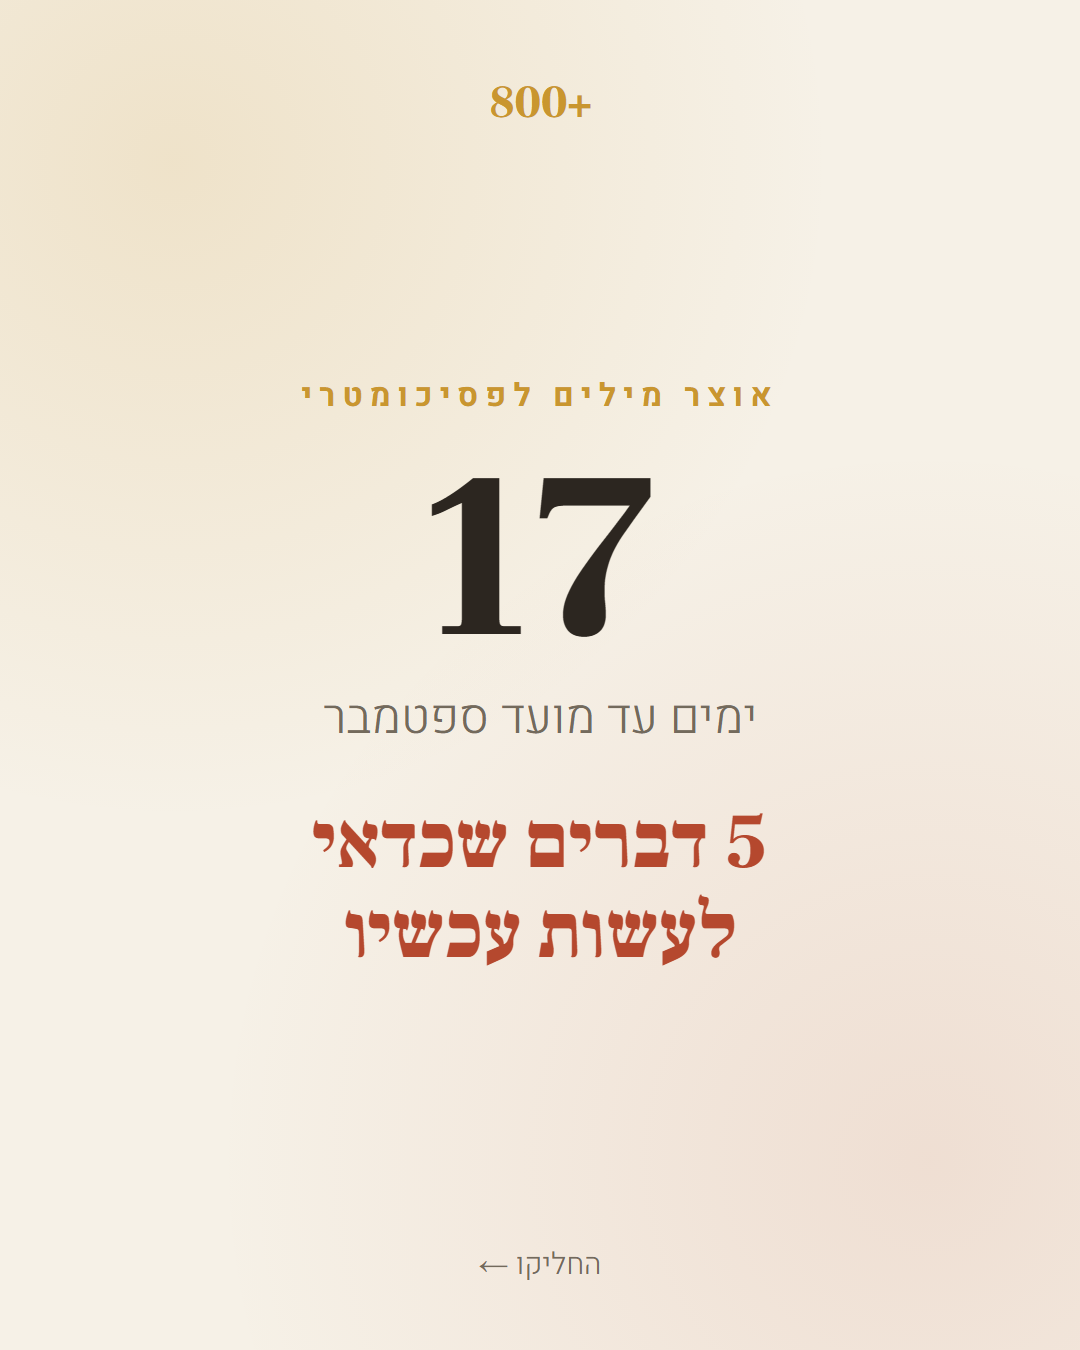
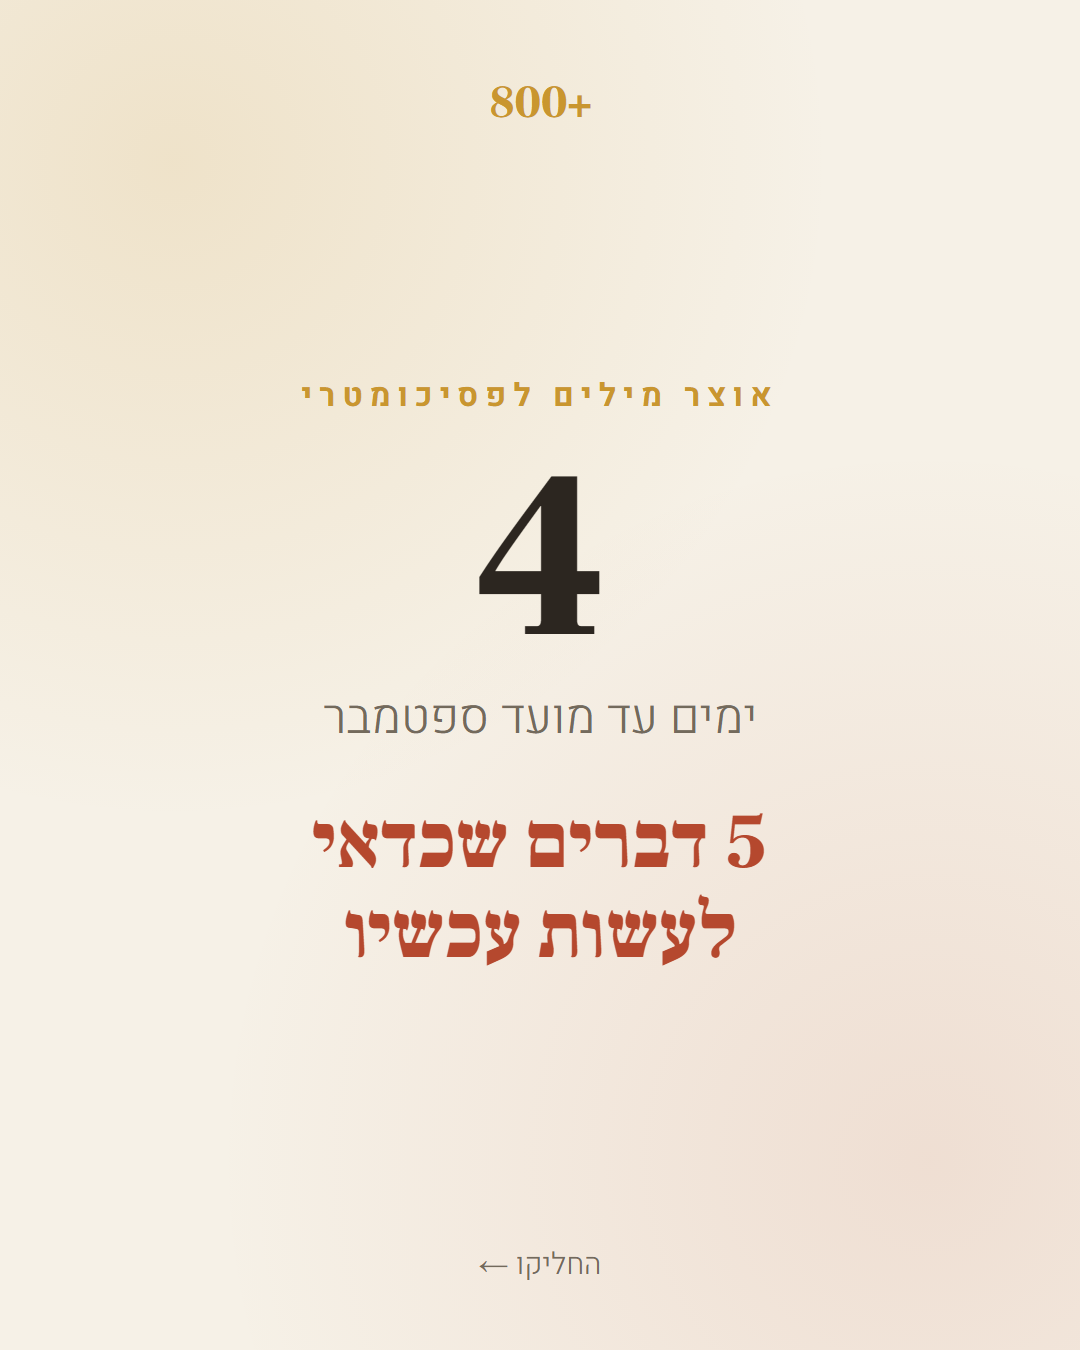
ק2 · רינדור 30.8 · 4 ימים למועד ספטמבר
הקרוסלה רונדרה מחדש ביום ההעלאה. 00.png מכריזה 4, אומת בעיניים.
06.png מציגה «אפשר להתחיל בלי הרשמה» ולא «3 ימי ניסיון חינם», לפי
הכרעת 28.8 שהמוצר חינמי ואין באתר החי שום שער מנוי.

התמלול עודכן: כיתוב לטיקטוק, לאינסטגרם ולפייסבוק, בדיקת מעקב הקבוצות,
והרשימה של הקבצים שעדיין מחזיקים את טקסט הניסיון הישן.

בודק-עברית: נקי.

Changed region(s): [[0.3972, 0.3422, 0.6111, 0.4667]]

diff --git a/שיווק/מוכן-לפרסום/אינסטגרם/05-ק2-ספירה/תמלול.md b/שיווק/מוכן-לפרסום/אינסטגרם/05-ק2-ספירה/תמלול.md
@@ -2,50 +2,159 @@
 
 **קבצים:** `00.png` עד `06.png` · 1080×1350 (4:5) · **שבע שקופיות בסדר הזה**
 **סוג:** קרוסלה
-**רונדר:** 19.8.2026 · מכריז **15 ימים**
+**רונדר:** 30.8.2026, 17:26 · מכריז **4 ימים** · אומת בעיניים מול `00.png`
+**מועד המבחן:** 3.9.2026 (`EXAM_DATE` ב-`remotion/src/brand.ts`)
 
 ---
 
-## ⚠⚠ לרנדר מחדש ביום ההעלאה
+# ⛔⛔ לרנדר מחדש ביום ההעלאה · לפני הכול
 
-השקופית הראשונה מכריזה את מספר הימים עד המבחן, והמספר מחושב בזמן הרינדור.
-**קרוסלה שרונדרה אתמול מכריזה מספר שגוי היום.**
+שקופית `00.png` מכריזה **מספר ימים שנצרב לתוך התמונה בזמן הרינדור**, והוא
+מתיישן כל לילה בחצות. **קרוסלה שרונדרה אתמול מכריזה מספר שגוי היום.**
+
+⭐ **הפקודה, להעתקה כמו שהיא:**
 
 ```powershell
-cd "C:/Users/03hag/Claude projects/800+/שיווק"
-.\רנדר-נכסים.ps1 -Only "ק2"
+cd "C:\Users\03hag\Claude projects\800plus-marketing\שיווק"; .\רנדר-נכסים.ps1 -Only "ק2"; Copy-Item "תמונות\ק2-תוכנית-ימים\0*.png" "מוכן-לפרסום\אינסטגרם\05-ק2-ספירה\" -Force; [int]([datetime]"2026-09-03" - (Get-Date).Date).TotalDays
 ```
 
-✅ הסקריפט תוקן ב-17.8 ורץ נקי. הוא נפל על אזהרת הגופנים כי PowerShell עוטף
-כל שורת stderr של תוכנית חיצונית ב-NativeCommandError, ו-`Stop` הפך אותה
-לשגיאה מסיימת, **אחרי** שהרינדור הצליח והקובץ כבר נכתב.
+היא מרנדרת, מעתיקה לכאן, **והמספר האחרון שהיא מדפיסה הוא מספר הימים.**
+זה המספר שצריך להופיע גם בשקופית וגם בשורה הראשונה של הכיתוב.
+
+⚠ **הפקודה מצביעה על `800plus-marketing` ולא על `800+`, וזה מכוון.**
+עץ `800+` נמצא על ענף `pipeline-v2` ומחזיק גרסה ישנה של הקרוסלה: שקופית
+הסיום שם עדיין כתוב בה **"חינם עד 30.8"**, תאריך שנמחק מהשיווק, והוא הופך
+לשקר ב-31.8. **רינדור משם מייצר נכס פגום.**
+
+### שלוש בדיקות אחרי הרינדור
+
+- [x] פתחת את `00.png` **והסתכלת** על המספר. לא הנחת שהצינור צדק ✔ 30.8: **4**
+- [x] המספר בשקופית = המספר שהפקודה הדפיסה = המספר בשורה הראשונה של הכיתוב ✔
+- [x] שקופית `06.png` כתוב בה **"אפשר להתחיל בלי הרשמה"** ✔ אומת בעיניים 30.8
+
+⛔ **מה שאסור להופיע ב-`06.png`, ולמה:**
+
+| הטקסט | למה הוא פסול |
+|---|---|
+| `3 ימי ניסיון חינם` | ⛔ **שקר מ-28.8.** המוצר חינמי והגבייה נעצרה. `grep` על `subscriptionActive|isSubscribed|trialExpired` ב-`app.js` החי החזיר **0 תוצאות**, כלומר אין שום שער מנוי באתר. הטקסט הזה מרתיע ואינו נכון |
+| `חינם עד 30.8` | ⛔ **רינדרת מעץ `800+` על `pipeline-v2`.** תאריך שנמחק מהשיווק |
+
+⚠ **התיקון יושב ב-`remotion/src/CarouselPlan.tsx` שורה 162 ואסור לבטל אותו.**
+⚠ **`CarouselPairs.tsx` · `ReelCold.tsx` · `ReelQuiz.tsx` עדיין מחזיקים
+`3 ימי ניסיון חינם`, וכך גם `trialLabel()` ב-`brand.ts`.** הם אינם חלק
+מהפוסט הזה, **אבל כל נכס שיופק מהם ישקר.** לתקן לפני הפקה מהם.
+
+⚠ **מתחת לשלושה ימים הקרוסלה משנה צורה מעצמה** ומציגה "נשארו יומיים" או
+"המבחן מחר" במקום מספר ענק, כי "2 ימים" אינו עברית. **הכיתוב לא משתנה
+לבד** — לנסח את השורה הראשונה בהתאם.
 
 ---
 
-## הכיתוב · להעתקה מלאה
+## הכיתוב · טיקטוק
+
+⛔ **בלי כתובת בכיתוב.** נמדד על ארבעה פוסטים מול ארבעה: **עם** כתובת
+181 · 204 · 207 · 263 צפיות ואפס לייקים. **בלי** כתובת 238 · 319 · 488 · 682
+ולפחות לייק אחד בכל אחד. הכתובת יושבת בביו, **ובתגובה הראשונה מיד אחרי הפרסום.**
+
+**כותרת** (עד 90 תווים):
 
 ```
-15 יום למועד ספטמבר בפסיכומטרי. מה עושים עם אוצר מילים בזמן שנשאר? 📆
-חמישה דברים מעשיים, לא עצות כלליות. הכי חשוב מביניהם: לא לפתוח מאגר חדש עכשיו.
+4 ימים למועד ספטמבר. תוכנית אוצר מילים לזמן שנשאר
+```
 
-מי ניגש איתכם? שלחו לו את זה.
-www.800-plus.com
+**תיאור:**
+
+```
+4 ימים למועד ספטמבר בפסיכומטרי. חמישה דברים מעשיים לאוצר מילים בזמן שנשאר, והראשון הוא לא לפתוח מאגר חדש עכשיו.
+מי ניגש איתכם? שלחו לו את התוכנית.
 
 #פסיכומטרי #אמירם #אוצרמילים #מועדספטמבר
 ```
 
-⚠ **המספר בכיתוב חייב להתאים למספר בשקופית.** אם רינדרתם ביום אחר, עדכנו את
-המספר בשורה הראשונה.
+**התגובה הראשונה, מיד אחרי הפרסום:**
+
+```
+www.800-plus.com
+```
+
+⭐ **סאונד:** לחפש `trending` או `viral` ולקחת את מה שעולה למעלה.
+`Beat Automotivo Tan Tan Tan Viral` · WZ Beat הוא ברירת המחדל, שבע שניות
+בלולאה. ⛔ לא `lofi` · לא `study` · לא `calm`.
+
+---
+
+## הכיתוב · אינסטגרם
+
+```
+4 ימים למועד ספטמבר בפסיכומטרי. מה עושים עם אוצר מילים בזמן שנשאר?
+חמישה דברים מעשיים, לא עצות כלליות. הראשון: לא לפתוח מאגר חדש עכשיו, כי מילה שכבר נגעת בה קרובה יותר לשליטה ממילה שטרם תרגלת.
+העיקרון המשותף לחמישה הוא חזרה רק על מה שאתה לא שולט בו.
+
+מי ניגש איתכם? שלחו לו את התוכנית.
+www.800-plus.com
+
+#פסיכומטרי #אמירם #אוצרמילים #מועדספטמבר #אנגליתלפסיכומטרי
+```
+
+⚠ **יחס 4:5 נבחר ידנית.** ברירת המחדל חותכת לריבוע ואוכלת את `800+` למעלה
+ואת `החליקו ←` למטה.
+
+---
+
+## הכיתוב · פייסבוק
+
+⚠ **פייסבוק היא החלטה של חגי, לא ברירת מחדל.** הפירוט בסעיף
+«פייסבוק · מה נבדק» למטה. הכיתוב מוכן למקרה שהוא בוחר לפרסם.
+
+```
+נשארו 4 ימים למועד ספטמבר בפסיכומטרי, וזה בדיוק השלב שבו הרבה אנשים עושים את הטעות ההפוכה ופותחים מאגר מילים חדש.
+בניתי תוכנית של חמישה צעדים לימים שנשארו, כי מילה שכבר נגעת בה קרובה יותר לשליטה ממילה שטרם תרגלת, והזמן שנותר מספיק בדיוק לזה.
+הצעדים לא מבוססים על תחושה. מספר קבוע ליום, שליפה מהראש במקום קריאה חוזרת, וחזרה רק על מה שאתה לא שולט בו.
+התוכנית כולה בתמונות כאן. מי שניגש איתכם למועד הזה יכול לקבל אותה בשליחה אחת.
+www.800-plus.com
+```
+
+⛔ **בלי האשטגים בפייסבוק.** בקבוצות הם נקראים כספאם.
+
+---
+
+## פייסבוק · מה נבדק
+
+**נבדק ב-`תוכניות/מעקב-פרסום-קבוצות.xlsx` ב-30.8.2026.** שתי קבוצות ירדו
+לתמיד: «הפסיכומטרי של המדינה» (אזהרת חסימה, 26.8) ו«פסיכומטרי ומבחן אמירנט»
+(שלושה פרסומים הוסרו). מה שנשאר:
+
+| הקבוצה | גודל | פורסם לאחרונה | מרווח | המצב |
+|---|---:|---|---:|---|
+| מבחן אמיר/אמירם פסיכומטרי | 2.8K | 26.8 | **4 ימים** | ⛔ מתחת לחמישה ימים |
+| מועמדים לרפואה 4 שנתית | 7.1K | 26.8 | **4 ימים** | ⛔ מתחת לחמישה ימים |
+| מתייעצים על לימודים | 2.9K | 16.8 | 14 יום | ⚠ **כבר קיבלה את הספירה** (18 יום) |
+| ספסל הלימודים | 1.7K | 16.8 | 14 יום | ⚠ **כבר קיבלה את הספירה** (ספירה ג) |
+| מתמסרים · ספרי פסיכומטרי | 1.1K | 16.8 | 14 יום | ⚠ **כבר קיבלה את הספירה** (ספירה ה) |
+| סטודנטים מתייעצים ללימודים | 17.4K | 22.8 | 8 ימים | ⚠ **כבר קיבלה את הספירה** (ספירה ב) · ודורשת אישור מנהל, והפוסט מ-22.8 עדיין ממתין |
+
+⚠ **המסקנה: אין קבוצה שגם עברה חמישה ימים וגם לא ראתה את הקרוסלה הזאת.**
+כלל שבעת הימים כן נעבר בכל השש (14 ו-8 ימים), ולכן זה **אינו איסור** אלא
+העדפה. **המועמדת הטובה ביותר אם בכל זאת מפרסמים: «מתייעצים על לימודים»**,
+2.9K, בלי אישור מנהל, והספירה שהיא ראתה הכריזה 18 יום מול 4 היום.
+
+⛔ **קבוצה אחת בלבד, ולא כמה באותה שעה.** פרסום מקביל הוא מה שמסמן חשבון כספאם.
 
 ---
 
 ## לפני שמפרסמים
 
-- [ ] **רונדר מחדש היום?**
-- [ ] המספר בכיתוב = המספר בשקופית 00
+- [x] **רונדר מחדש היום?** ✔ 30.8, 17:26
+- [x] המספר בכיתוב = המספר בשקופית `00` ✔ **4**
+- [x] `06.png` מציגה «אפשר להתחיל בלי הרשמה» ✔
 - [ ] הסדר בגרירה הוא 00 ← 06. אינסטגרם אינה מבטיחה סדר בגרירה מרובה, **לגרור אחד-אחד**
-- [ ] יחס 4:5
-- [ ] הכתובת עם `www.`
+- [ ] יחס 4:5 נבחר ידנית באינסטגרם
+- [ ] הכתובת עם `www.` באינסטגרם ובפייסבוק, ובטיקטוק **אין כתובת בכלל**
+- [ ] בטיקטוק: התיאור מוקלד **בשלב ההעלאה, לפני «לפרסם»**. לא בעריכה של פוסט חי
+- [ ] בטיקטוק: **נבחר סאונד קצבי**
+- [ ] אין פוסט נוסף לאותה פלטפורמה היום
+- [ ] אחרי הפרסום בטיקטוק: **הכתובת בתגובה הראשונה** · ופרטיות «כולם»
+- [ ] אחרי הפרסום באינסטגרם: **לפתוח את הפוסט החי ולוודא שיש בו כיתוב**
 
 ## למה זה בנוי ככה
 
@@ -53,8 +162,15 @@ www.800-plus.com
 לחשוב, וזה טריגר השיתוף החזק ביותר שיש לנו.
 
 שקופית הסיום שואלת **"מי ניגש איתכם?"** ולא "מה דעתכם" — שאלה שמכריחה לחשוב על
-אדם מסוים היא מה שמייצר שליחה בפועל.
+אדם מסוים היא מה שמייצר שליחה בפועל. ⛔ **והכיתוב מבקש שליחה, לא תגובה.**
+נמדד: עשרה פוסטי טיקטוק, אפס תגובות, כולל אלה שביקשו תגובה במפורש.
+
+**חמשת הצעדים אינם עצות כלליות.** כל אחד מתאר משהו שהמוצר עושה בפועל, או עובדה
+שאושרה. אין בהם מספר שלא נספר.
 
 ## אחרי הפרסום
 
 - [ ] אחרי 48 שעות: **שיתופים** לפני הכל · ואז שמירות · צפיות · יחס לייקים
+- [ ] באינסטגרם: **`מקור אחר` ב-Insights לפני כל מדד אחר.** אם הוא 0, אין מה ללמוד מהפוסט
+- [ ] יומיים לפחות עד הפוסט הבא באינסטגרם. ⚠ כיוון סביר, לא כלל, ו**אסור להסביר בעזרתו פוסט שנפל**
+- [ ] לרשום ב-`מוכן-לפרסום/README.md` ובמעקב הקבוצות
